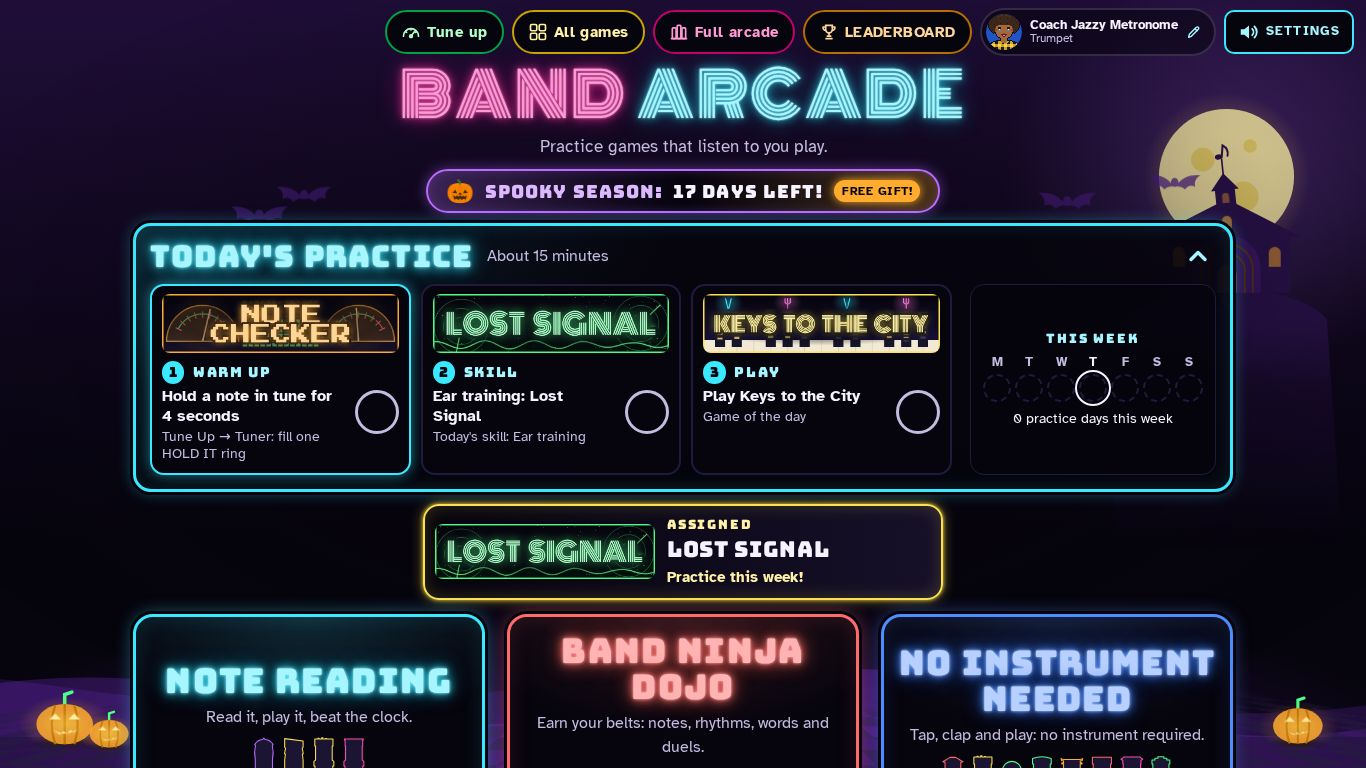
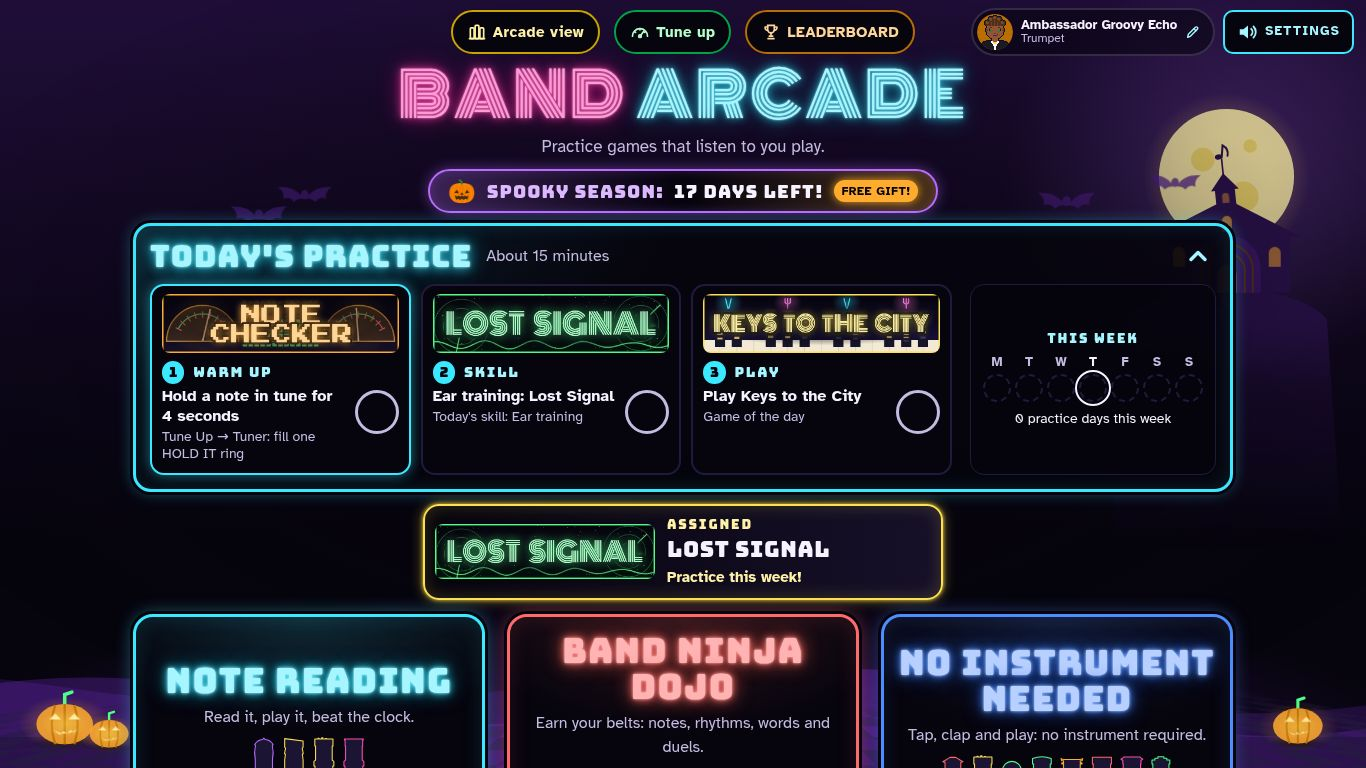
Gallery: refresh the floor screenshots for the new top bar and ARCADE VIEW; phone zone contrast check counts the title only
On a phone, a zone's top bar is icons plus the zone's name, so the seasonal contrast check expects at least one text
there instead of four (every text still has to reach 4.5:1).

Claude-Session: https://claude.ai/code/session_01BVu6ZAdMHQQaPg7RBWh8bs

diff --git a/tests/seasonal-looks.spec.js b/tests/seasonal-looks.spec.js
@@ -341,7 +341,8 @@ for (const [name, w, h] of SIZES) {
       if (hash) await page.waitForFunction(() => Arcade.Arcade.state().kind, null, {timeout: 15000});
       await settle(page);
       const got = await contrasts(page, hash ? '#fbar' : '#fbar, #zones .zsign, #lobby > .sign');
-      expect(got.length).toBeGreaterThan(3);
+      // (a phone's zone: the top bar is icons + the zone's name, so its title is the only text: tests/top-bar.spec.js)
+      expect(got.length).toBeGreaterThan(hash && w <= 600 ? 0 : 3);
       for (const t of got) expect(`${name} ${hash || 'lobby'} "${t.text}" ${t.ratio}`).toMatch(t.ratio >= 4.5 ? /./ : /^$/);
     }
     watch.check();
